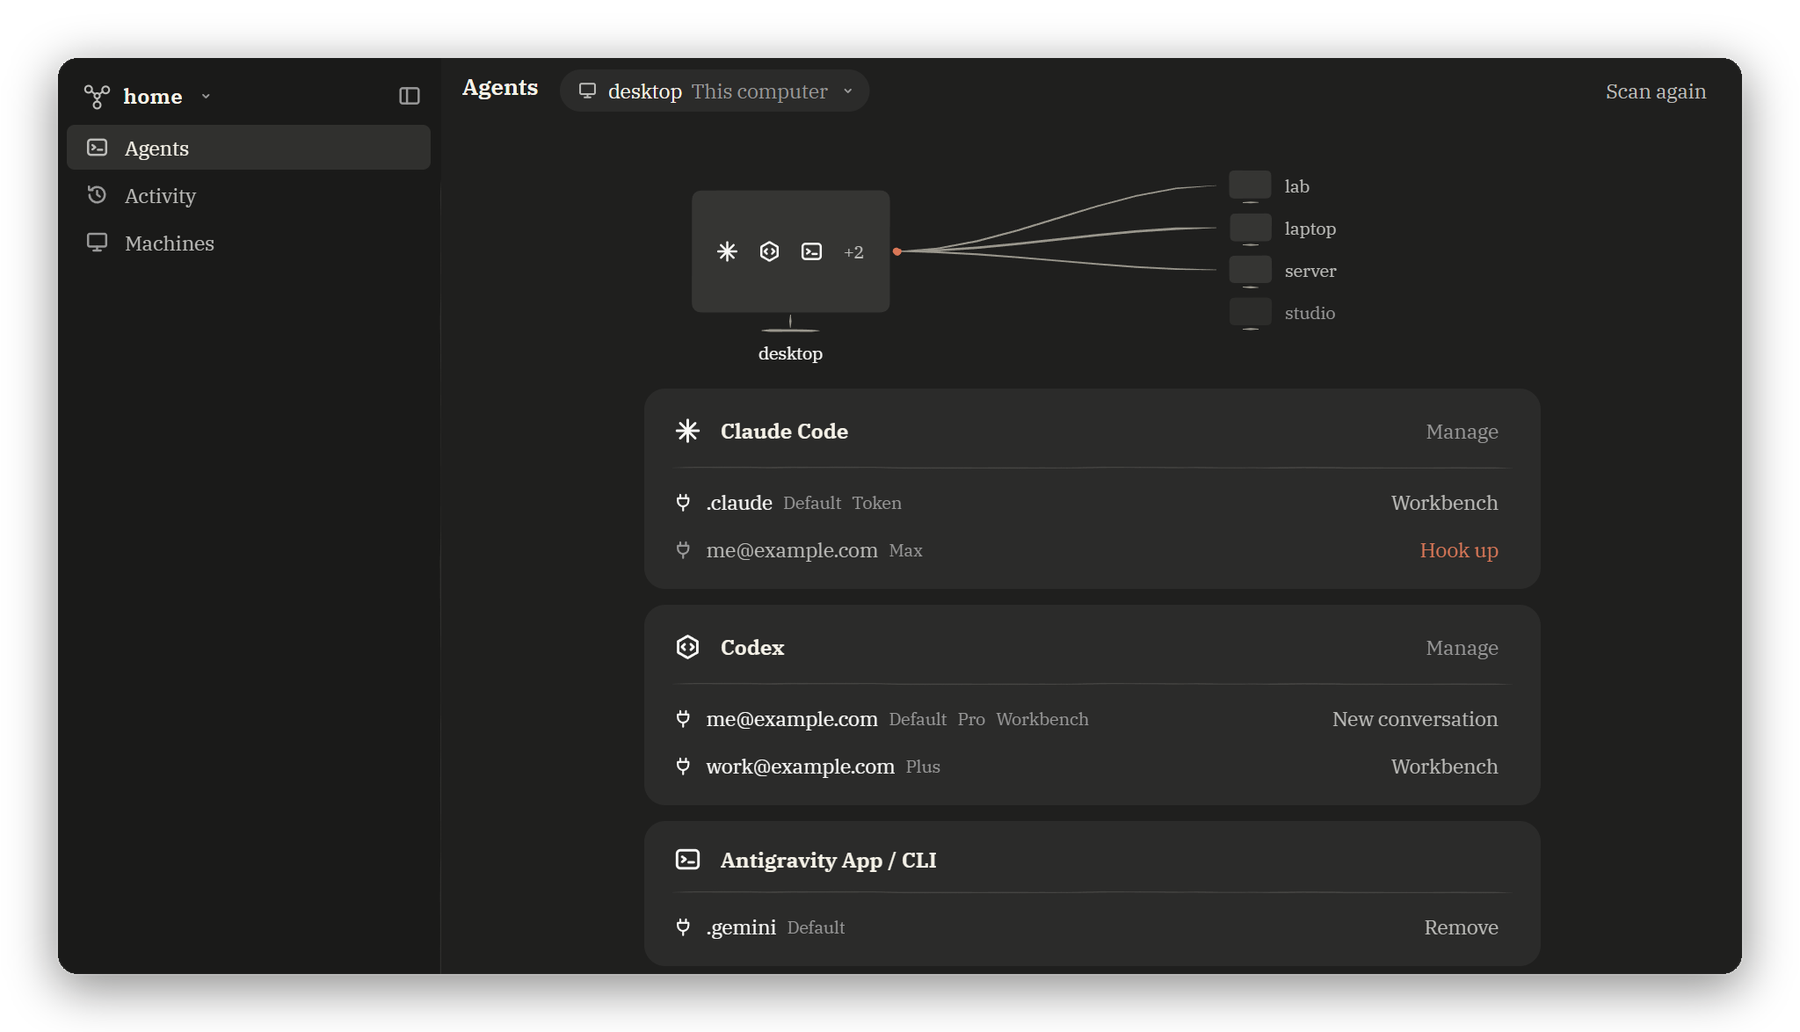
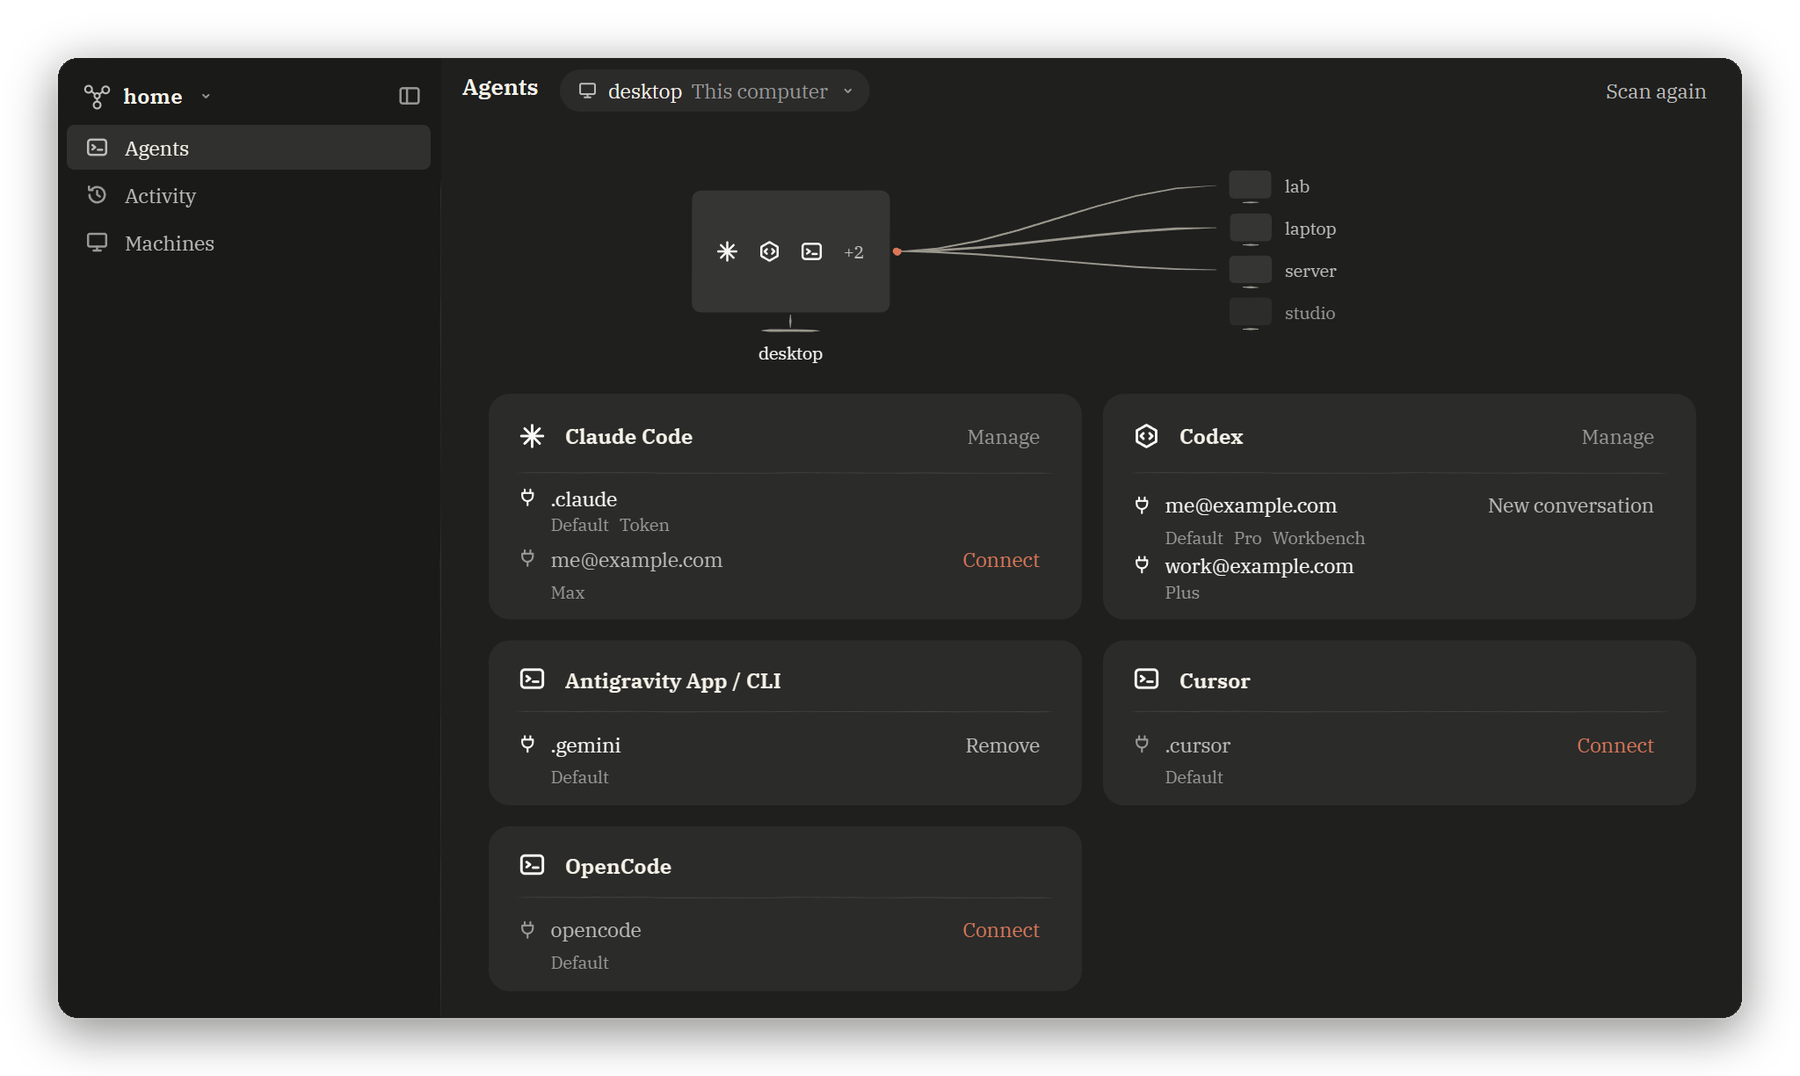
Tell the README as the release is: 23 agents, 13 of whose own shells are turned off and 10 that keep them, the workbench turned on in each sign-in from the agent's own page, the workbench's conversation settings in one place, and the Agents page as it is drawn now

diff --git a/README.md b/README.md
@@ -17,7 +17,7 @@
 
 ## What Fastctx is
 
-Fastctx is an MCP tool. When you connect it to the agents you already use—17 supported agents, including Claude Code, Codex, and Cursor—the agent gets a single tool named `run`. With `run`, it can execute commands, view and edit files on any of your machines, copy files between machines, and leave long-running jobs in the background.
+Fastctx is an MCP tool. When you connect it to the agents you already use—23 supported agents, including Claude Code, Codex, and Cursor—the agent gets a single tool named `run`. With `run`, it can execute commands, view and edit files on any of your machines, copy files between machines, and leave long-running jobs in the background.
 
 - You keep working in your own agent without changing tools or habits.
 - Your machines connect through your own Hub across Windows, macOS, and Linux, without needing public IP addresses.
@@ -38,7 +38,7 @@ Connecting does three things:
 
 1. **Adds the `run` tool**: Registers the Fastctx MCP server in the agent's config file, such as `config.toml` for Codex or `.claude.json` for Claude Code.
 2. **Adds usage instructions**: Writes a short section into the agent's global instruction file (such as `AGENTS.md` or `CLAUDE.md`) explaining when to use `run`.
-3. **Turns off its own shell**: Routes command execution through `run`. For 8 agents whose built-in shell cannot be turned off (see the table below), both remain available, and only commands run through `run` are recorded in Activity.
+3. **Turns off its own shell**: Routes command execution through `run`. For 10 agents whose built-in shell cannot be turned off (see the table below), both remain available, and only commands run through `run` are recorded in Activity.
 
 - **Remove**: Removes only what Fastctx wrote and restores modified values. Your own content in those files stays untouched.
 - **Updates**: When Fastctx upgrades, it updates the sections it wrote to match the new version. If those sections were edited manually, Fastctx backs up the file before replacing them.
@@ -53,8 +53,8 @@ Connecting does three things:
 
 | Built-in shell | Agents |
 |---|---|
-| Turned off | Claude Code, Codex, Antigravity (App & CLI), OpenCode, Qwen Code, Cline, Zed, Auggie, Devin (Desktop & Local) |
-| Stays on | Cursor, GitHub Copilot CLI, Copilot (VS Code), Roo Code (VS Code), Kiro, Trae, Continue, Claude Desktop |
+| Turned off | Claude Code, Codex, Antigravity (App & CLI), OpenCode, Qwen Code, Cursor, Cline, Zed, Kiro, Auggie, Devin (Desktop & Local), Qoder CLI, Amp |
+| Stays on | GitHub Copilot CLI, Copilot (VS Code), Roo Code (VS Code), Trae, Continue, Claude Desktop, Qoder IDE, ZCode, DeepSeek Harness, Goose |
 
 ## One tool: `run`
 
@@ -124,12 +124,13 @@ Every machine keeps its own Activity log to answer one question: what did my age
 
 ## Workbench (Claude Code and Codex)
 
-On a connected Claude Code or Codex sign-in, you can also turn on the Workbench. Before enabling it, a window shows the exact changes it will make.
+On a connected Claude Code or Codex sign-in, you can also turn on the Workbench: open the agent and flip the switch on that sign-in, so each sign-in decides for itself. Before enabling it, a window shows the exact changes it will make.
 
 - **Conversations**: Talk with the agent from the Fastctx desktop or Android app.
 - **Wake**: When something the agent is waiting on finishes (such as a background job), Fastctx wakes the agent to continue, even while you are away.
 - **Quota**: Displays the quota and usage for that sign-in.
 - **Model collaboration**: A conversation can hand off subtasks to another model (for example, Claude handing off to Codex), with a configurable concurrency limit.
+- **Conversation settings**: Prompts, skills, MCP servers, models, and collaboration settings live under **Conversation settings** in the sidebar's Workbench group, and apply only to Workbench conversations.
 - **Non-intrusive**: Sessions you open directly in Claude Code or Codex are unaffected.
 - **Turn off anytime**: You can disable the Workbench at any time without losing your conversations or data.
 - **Quota usage**: Conversations consume the quota of that specific sign-in.
